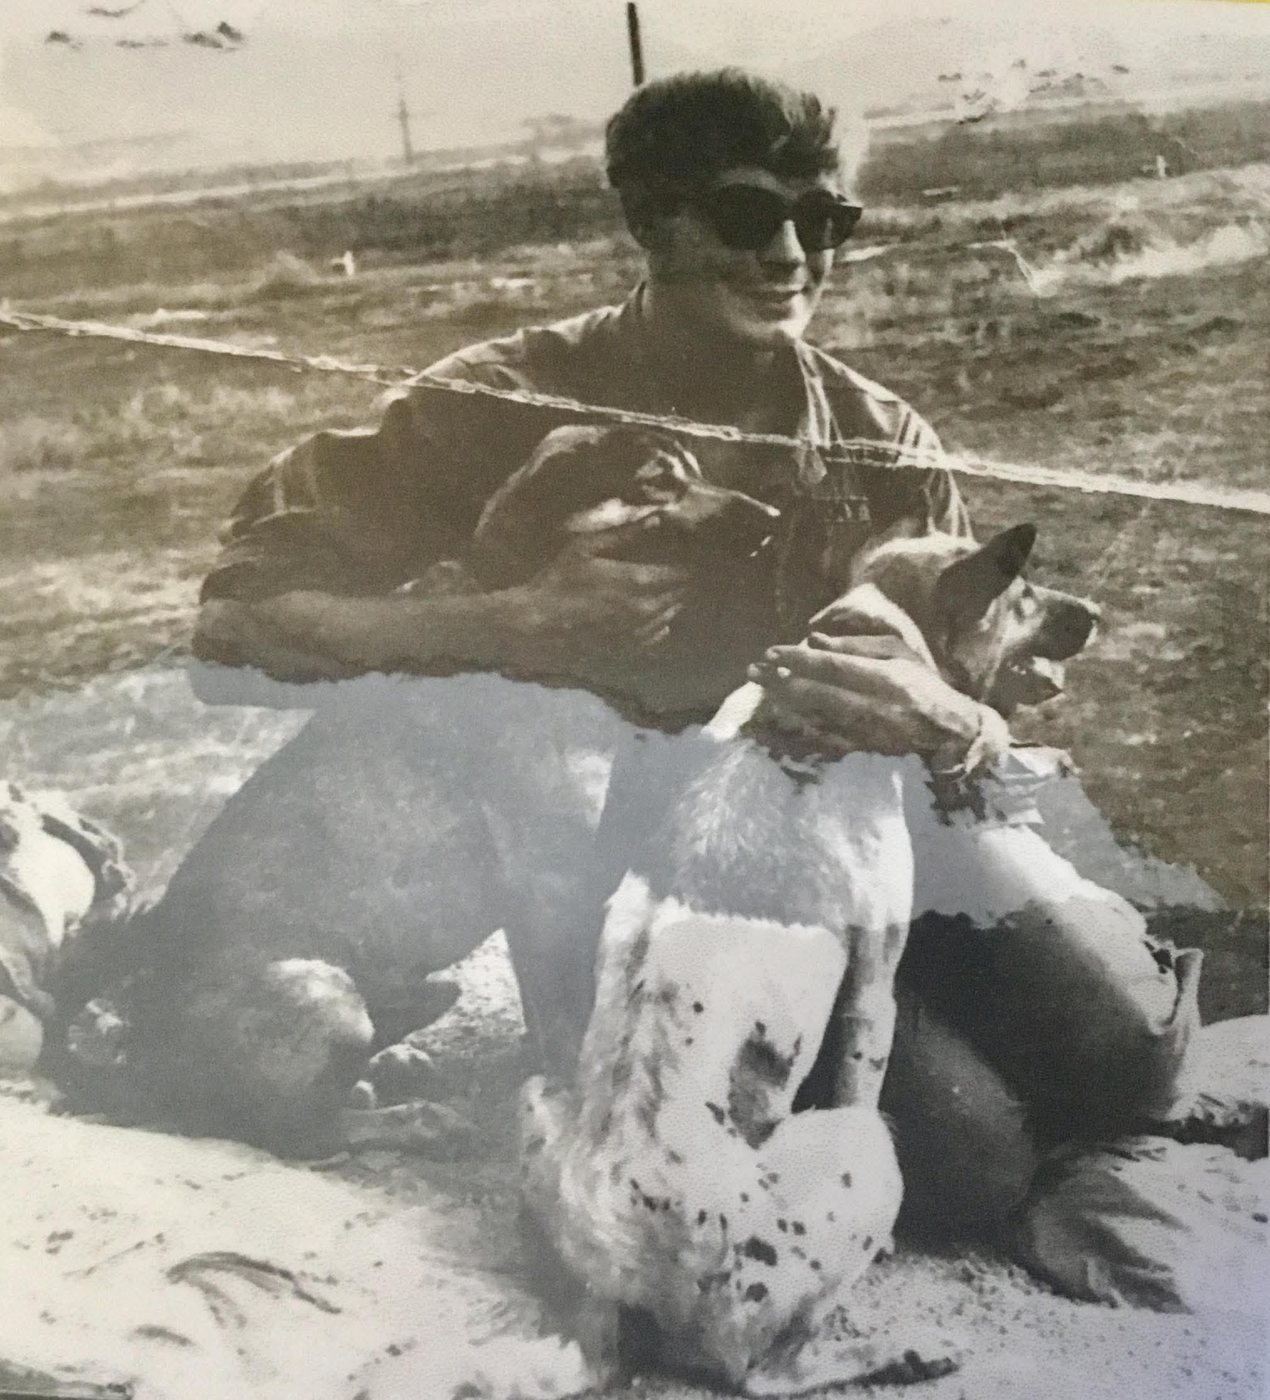
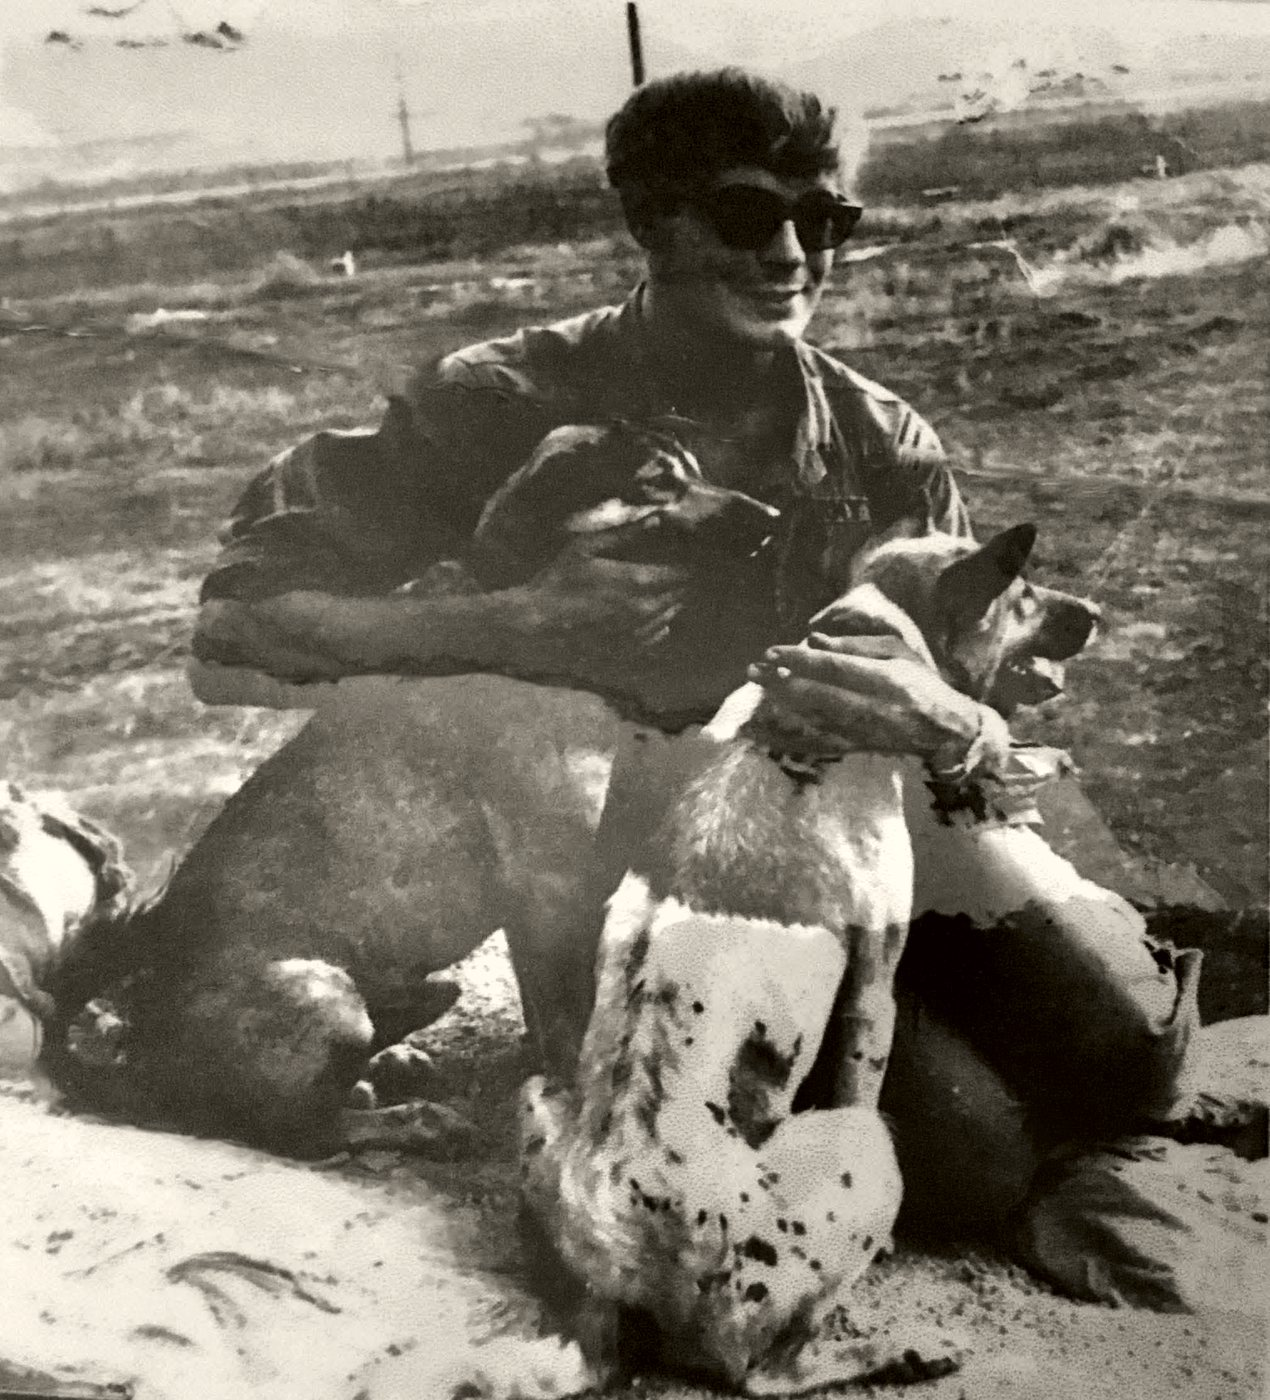
Homepage: digitally restored "Man's Best Friends" photo (P002)
At Andy's request: the fold across the top filled in, the faded lower half
brought back toward the tones of the rest of the print. Nothing added or
removed; no generative AI. The caption says so and links the unrestored copy.

Claude-Session: https://claude.ai/code/session_01FWET7Gz7QSAwTmssdBAYWg

diff --git a/site/templates/index.html b/site/templates/index.html
@@ -79,13 +79,13 @@
     <section id="album" class="section album" aria-labelledby="album-title">
       <figure class="family-photo album-photo">
         <img src="{{ROOT}}static/photos/P002-dad-and-snoopy.jpg" width="1270" height="1400" loading="lazy"
-             alt="Black-and-white photograph of Dad in sunglasses, sitting on sandy ground with an arm around each of two dogs: a dark, short-haired dog on the left, Snoopy, and a light dog with dark spots on the right. The print is creased and partly worn away.">
+             alt="Black-and-white photograph of Dad in sunglasses, sitting on sandy ground with an arm around each of two dogs: a dark, short-haired dog on the left, Snoopy, and a light dog with dark spots on the right. The print has been digitally restored.">
       </figure>
       <div class="album-text">
         <p class="eyebrow">From the family album</p>
         <h2 id="album-title" class="dedication">Man’s Best Friends</h2>
         <p>Dad with Snoopy (left), his dog in Vietnam, and a second, unnamed friend.</p>
-        <p class="provenance">Original family photograph. Date and place unknown. The creases and worn patches are the print’s own; it has not been retouched.</p>
+        <p class="provenance">Original family photograph, digitally restored: a fold across the top was filled in and the faded lower half was brought back toward the tones of the rest of the print. Nothing was added or removed. Date and place unknown. <a href="{{ROOT}}static/photos/P002-dad-and-snoopy-original.jpg">See the print before restoration</a>.</p>
       </div>
     </section>
 

diff --git a/archive/photos/README.md b/archive/photos/README.md
@@ -7,4 +7,4 @@ Each photo gets a folder `archive/photos/PNNN/` holding `photo.yml`: what it sho
 | ID | Description | Supplied by | Publish? |
 | --- | --- | --- | --- |
 | P001 | Young man, shirtless, seated on the ground against a wall of sandbags. Family identifies him as Dad. Print with a white border and some water staining. | Andy, 2026-11-10 | Yes: on the homepage, captioned “My inspiration. My mentor. My father.” |
-| P002 | Young man in sunglasses seated on sandy ground with two dogs, one dark and one light with dark spots. Family identifies him as Dad and the dog on the left as Snoopy, his dog in Vietnam (Letter 002). Print creased and partly damaged. | Andy, 2026-11-10 | Yes: on the homepage, captioned “Man’s Best Friends” |
+| P002 | Young man in sunglasses seated on sandy ground with two dogs, one dark and one light with dark spots. Family identifies him as Dad and the dog on the left as Snoopy, his dog in Vietnam (Letter 002). Print creased and partly damaged. | Andy, 2026-11-10 | Yes: on the homepage, captioned “Man’s Best Friends”; digitally restored at Andy’s request (original linked) |
